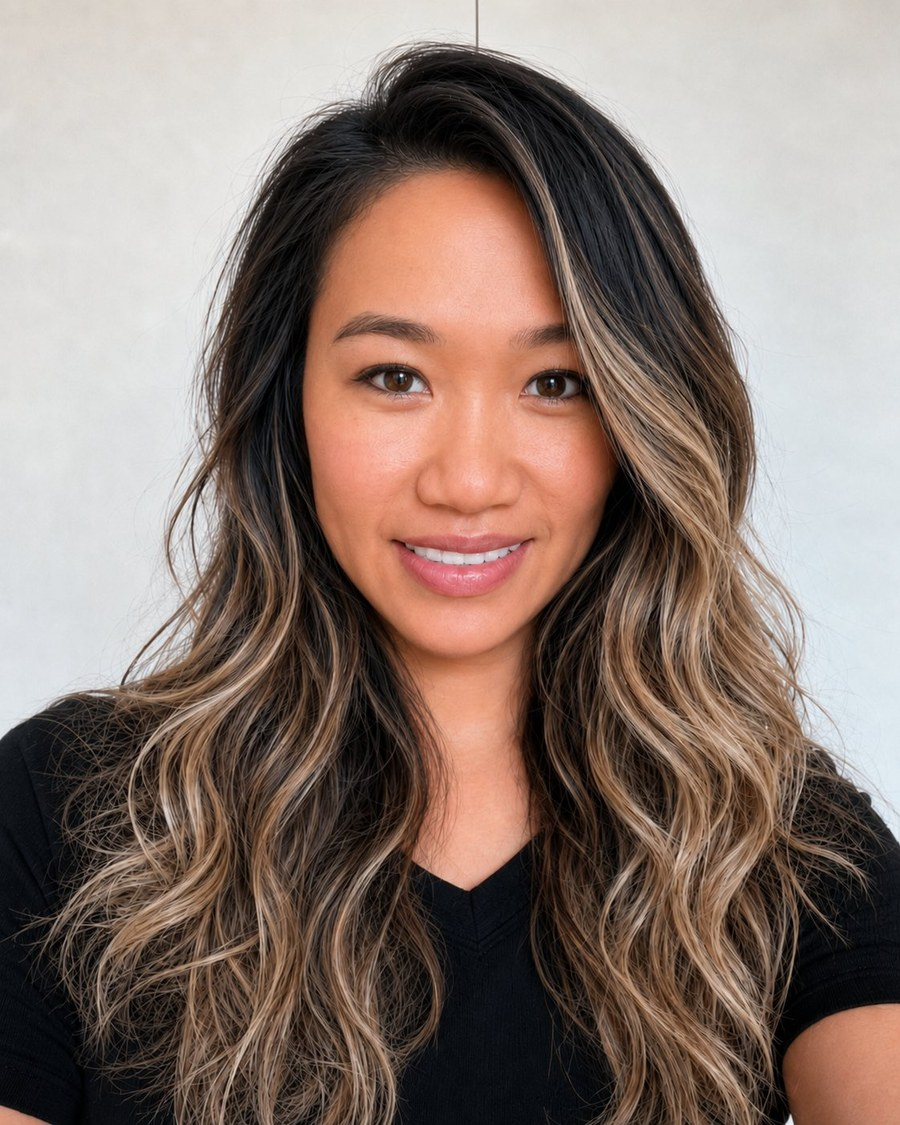
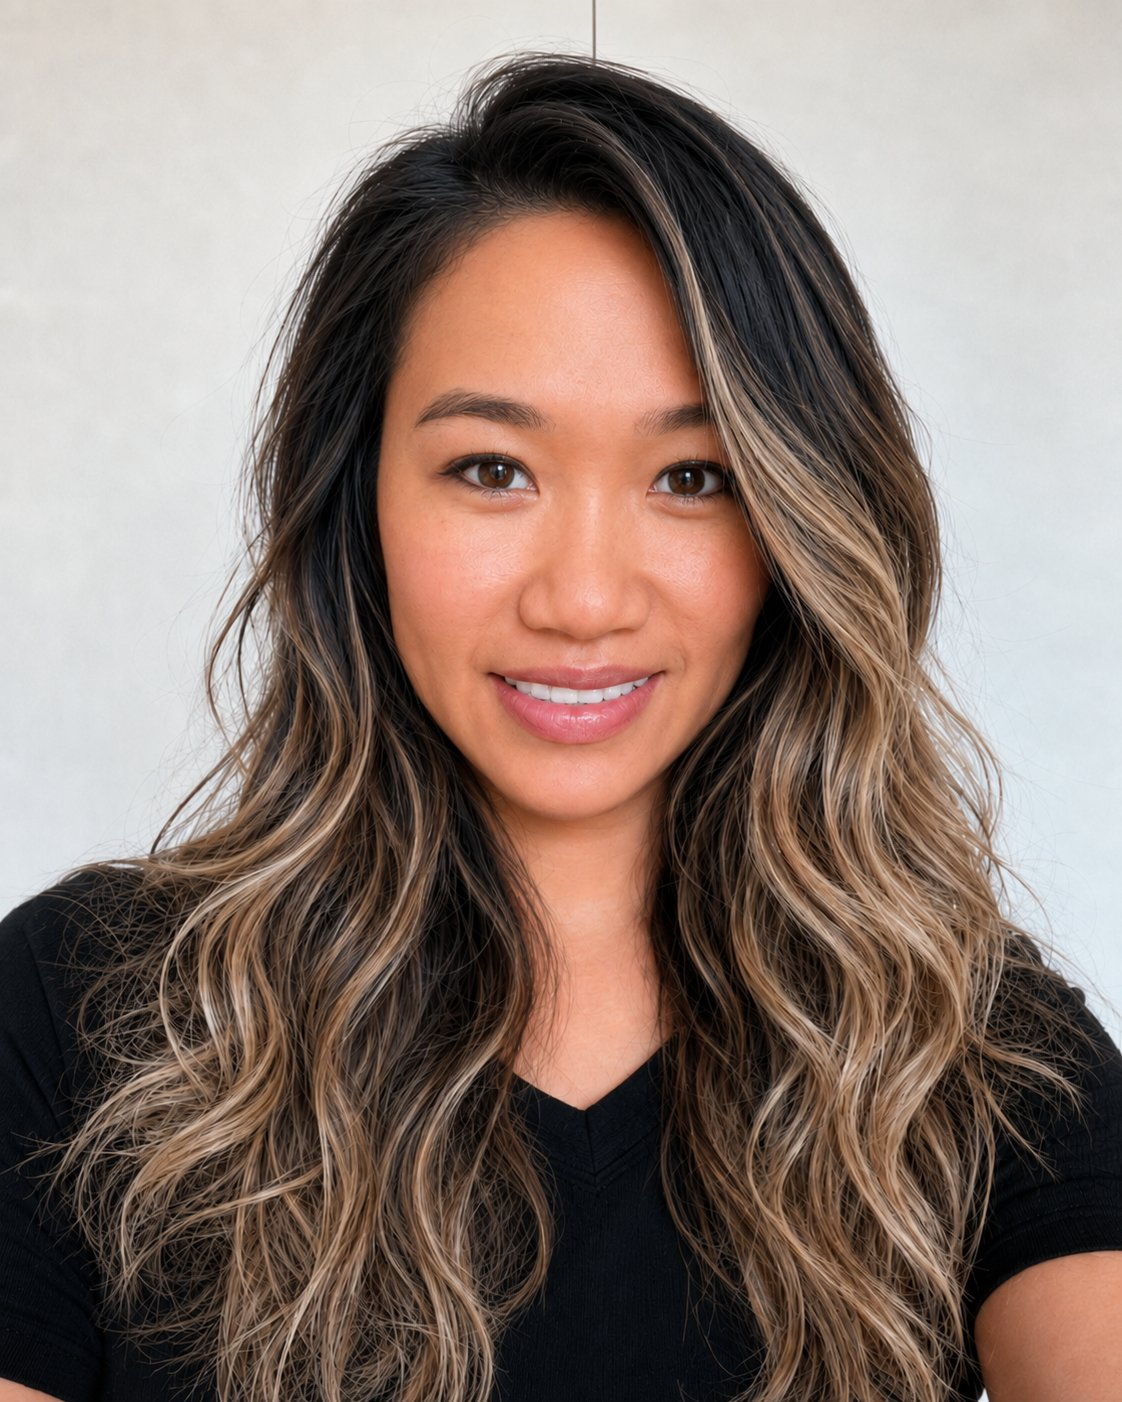
Rewrite the hero around the free 15-minute assessment, restore the live-site portrait, and point the $497 CTA to Stripe.

diff --git a/index.html b/index.html
@@ -5,7 +5,7 @@
   <meta name="viewport" content="width=device-width, initial-scale=1">
   <meta name="robots" content="noindex, nofollow">
   <title>Lien Pham — Free 15-minute assessment</title>
-  <meta name="description" content="A 15-minute assessment with Lien Pham to find what to fix first in your follow-up, inbox or admin. $0 for the first 5 spots.">
+  <meta name="description" content="A free 15-minute assessment with Lien Pham. Leave with the one workflow to fix first. USD $0 for the first 5 spots.">
   <style>
     :root {
       --ink: #113F34;
@@ -261,7 +261,7 @@
     @media (min-width: 860px) {
       .hero-grid { grid-template-columns: minmax(0, 1fr) minmax(260px, 400px); }
     }
-    .hero-copy h1 { max-width: 18ch; }
+    .hero-copy h1 { max-width: 22ch; }
     .portrait-card {
       position: relative;
       isolation: isolate;
@@ -288,11 +288,13 @@
       width: 100%;
       aspect-ratio: 4 / 5;
       object-fit: cover;
-      object-position: 50% 15%;
+      object-position: 50% 50%;
       border-radius: 24px;
       display: block;
       filter: saturate(0.96) contrast(1.04);
     }
+    .hero-copy h1 { max-width: 22ch; }
+    .hero-note { color: var(--muted); font-size: 0.92rem; margin: 14px 0 0; }
     .char-count {
       display: block;
       color: var(--muted);
@@ -337,19 +339,19 @@
     <section class="hero">
       <div class="hero-grid">
         <div class="hero-copy">
-          <p class="eyebrow">15-minute assessment</p>
-          <h1>Bring the messy follow-up. I’ll tell you what to fix first.</h1>
-          <p class="lede">Enquiries sitting in DMs, invoices you keep meaning to chase, a CRM that doesn’t quite match real life. It’s a 15-minute chat — we’ll pick one thing worth fixing, not a pile of new tools.</p>
-          <p class="price-offer"><del>$199</del> <span class="now">$0</span> <span class="spots">for the first 5 spots</span></p>
+          <p class="eyebrow">Free 15-minute assessment</p>
+          <h1>Bring the workflow. I’ll optimise it.</h1>
+          <p class="lede">Show me the follow-up, inbox or admin that’s eating your week. In a free 15-minute chat, I’ll tell you the one workflow to fix first.</p>
+          <p class="price-offer"><del>USD $199</del> <span class="now">USD $0</span> <span class="spots">for the first 5 spots</span></p>
           <div class="hero-actions">
-            <a class="btn" href="#assessment">Start my 15-minute assessment</a>
-            <a class="btn btn-ghost" href="#audit">See the $497 Full Assessment</a>
+            <a class="btn" href="#assessment">Start my free 15-minute assessment</a>
           </div>
+          <p class="hero-note">Five questions to start. No payment, and sending this doesn’t book a time.</p>
           <p class="who">For small business owners and working women running a 9-to-5 or a business, juggling enquiries, follow-up and admin that somehow still lands after bedtime.</p>
         </div>
         <div class="portrait-card">
           <div class="portrait-frame">
-            <img src="/images/lien-pham.jpg" alt="Lien Pham" width="900" height="1125">
+            <img src="/images/lien-pham.jpg" alt="Lien Pham" width="1122" height="1402">
           </div>
         </div>
       </div>
@@ -358,7 +360,7 @@
     <section class="section" id="assessment">
 
       <h2>A few quick questions, then I’ll take a look.</h2>
-      <p class="price-offer price-offer-compact"><del>$199</del> <span class="now">$0</span> <span class="spots">for the first 5 spots</span></p>
+      <p class="price-offer price-offer-compact"><del>USD $199</del> <span class="now">USD $0</span> <span class="spots">for the first 5 spots</span></p>
       <p class="lede">This takes a couple of minutes. I’ll read it myself, and if I can actually help, I’ll email you to set up the 15 minutes. Hitting send doesn’t book a time.</p>
 
       <div class="form-card">
@@ -442,7 +444,7 @@
           <p class="form-note">I’ll only use this to prepare for our chat. I don’t pass it on, and sending this doesn’t book a time.</p>
           <div id="form-status" class="status" role="status"></div>
           <div>
-            <button class="btn" type="submit" id="submit-btn">Request my 15-minute assessment</button>
+            <button class="btn" type="submit" id="submit-btn">Request my free 15-minute assessment</button>
           </div>
         </form>
         <div id="form-success" class="thanks" hidden>
@@ -456,7 +458,7 @@
 
     <section class="section">
       <h2>What you’ll get from the 15 minutes</h2>
-      <p class="lede">A straight conversation and one thing I’d fix first — not the full written plan. That’s the $497 Full Assessment, if you want it later.</p>
+      <p class="lede">A straight conversation and the one workflow I’d fix first — not the full written plan. That’s the USD $497 Full Assessment, if you want it later.</p>
       <div class="grid-4">
         <div class="card">
           <h3>The job on loop</h3>
@@ -493,7 +495,7 @@
         <div class="card">
           <span class="num">03</span>
           <h3>We pick one thing to fix first</h3>
-          <p>You leave with a clear next step. If you want the full 45–60 minute assessment and written plan, that’s the $497 Full Assessment.</p>
+          <p>You leave with the one workflow to fix first. If you want the full 45–60 minute assessment and written plan, that’s the USD $497 Full Assessment.</p>
         </div>
       </div>
     </section>
@@ -501,7 +503,7 @@
     <section class="section" id="audit">
       <div class="paid audit-card">
         <p class="eyebrow">Full Assessment</p>
-        <p class="audit-price">$497</p>
+        <p class="audit-price">USD $497</p>
         <h2>45–60 minutes live with Lien, plus your written plan</h2>
         <p>This is the full audit, not the 15-minute look. We go through how leads, CRM, follow-up and admin actually run. Then you get a plan you can use over the next few weeks.</p>
         <ul>
@@ -512,9 +514,9 @@
         </ul>
         <p>Implementation, if you want it, is a separate one-time piece of work. I don’t stay on for ongoing maintenance.</p>
         <div class="audit-actions">
-          <!-- Replace the mailto href with Lien's Stripe Payment Link when she pastes it. Do not invent a Stripe URL. -->
-          <a class="btn" id="full-audit-cta" href="mailto:letschat@lienpham.space?subject=Full%20Assessment%20%24497">Email me about the $497 Full Assessment</a>
-          <a class="btn btn-ghost" href="#assessment">Or start with the 15-minute assessment</a>
+          <!-- Stripe Payment Link for the USD $497 Full Assessment. -->
+          <a class="btn" id="full-audit-cta" href="https://book.stripe.com/fZu6oJew05yJ5C09Px8Vi00" target="_blank" rel="noopener noreferrer">Book the USD $497 Full Assessment</a>
+          <a class="btn btn-ghost" href="#assessment">Or start with the free 15-minute assessment</a>
         </div>
       </div>
     </section>
@@ -542,11 +544,11 @@
       <h2>Questions</h2>
       <details open>
         <summary>Is the 15-minute assessment free?</summary>
-        <p>The usual price is $199. The first 5 spots are $0. Sending the form doesn’t book a time, and there’s no charge to request one of those spots.</p>
+        <p>The usual price is USD $199. The first 5 spots are USD $0. Sending the form doesn’t book a time, and there’s no charge to request one of those spots.</p>
       </details>
       <details>
         <summary>What do I leave with?</summary>
-        <p>A clear “do this first” for the follow-up or admin that’s been bugging you. It isn’t the full written plan — that’s the $497 Full Assessment, if you want it.</p>
+        <p>The one workflow to fix first, in plain English. It isn’t the full written plan — that’s the USD $497 Full Assessment, if you want it.</p>
       </details>
       <details>
         <summary>What happens after I send this?</summary>
@@ -554,7 +556,7 @@
       </details>
       <details>
         <summary>What’s the difference between the 15-minute assessment and the Full Assessment?</summary>
-        <p>The 15-minute assessment is a short chat and one next step. The Full Assessment is $497: 45–60 minutes live with me, plus a written plan with 2–3 week quick wins, clear next steps and a roadmap. There’s no pressure either way.</p>
+        <p>The 15-minute assessment is a short chat and the one workflow to fix first. The Full Assessment is USD $497: 45–60 minutes live with me, plus a written plan with 2–3 week quick wins, clear next steps and a roadmap. There’s no pressure either way.</p>
       </details>
       <details>
         <summary>Do you stay on as ongoing support?</summary>
@@ -648,7 +650,7 @@
       } catch (error) {
         showError(error.message || "Something went wrong. Please email letschat@lienpham.space.");
         button.disabled = false;
-        button.textContent = "Request my 15-minute assessment";
+        button.textContent = "Request my free 15-minute assessment";
       }
     });
   </script>
